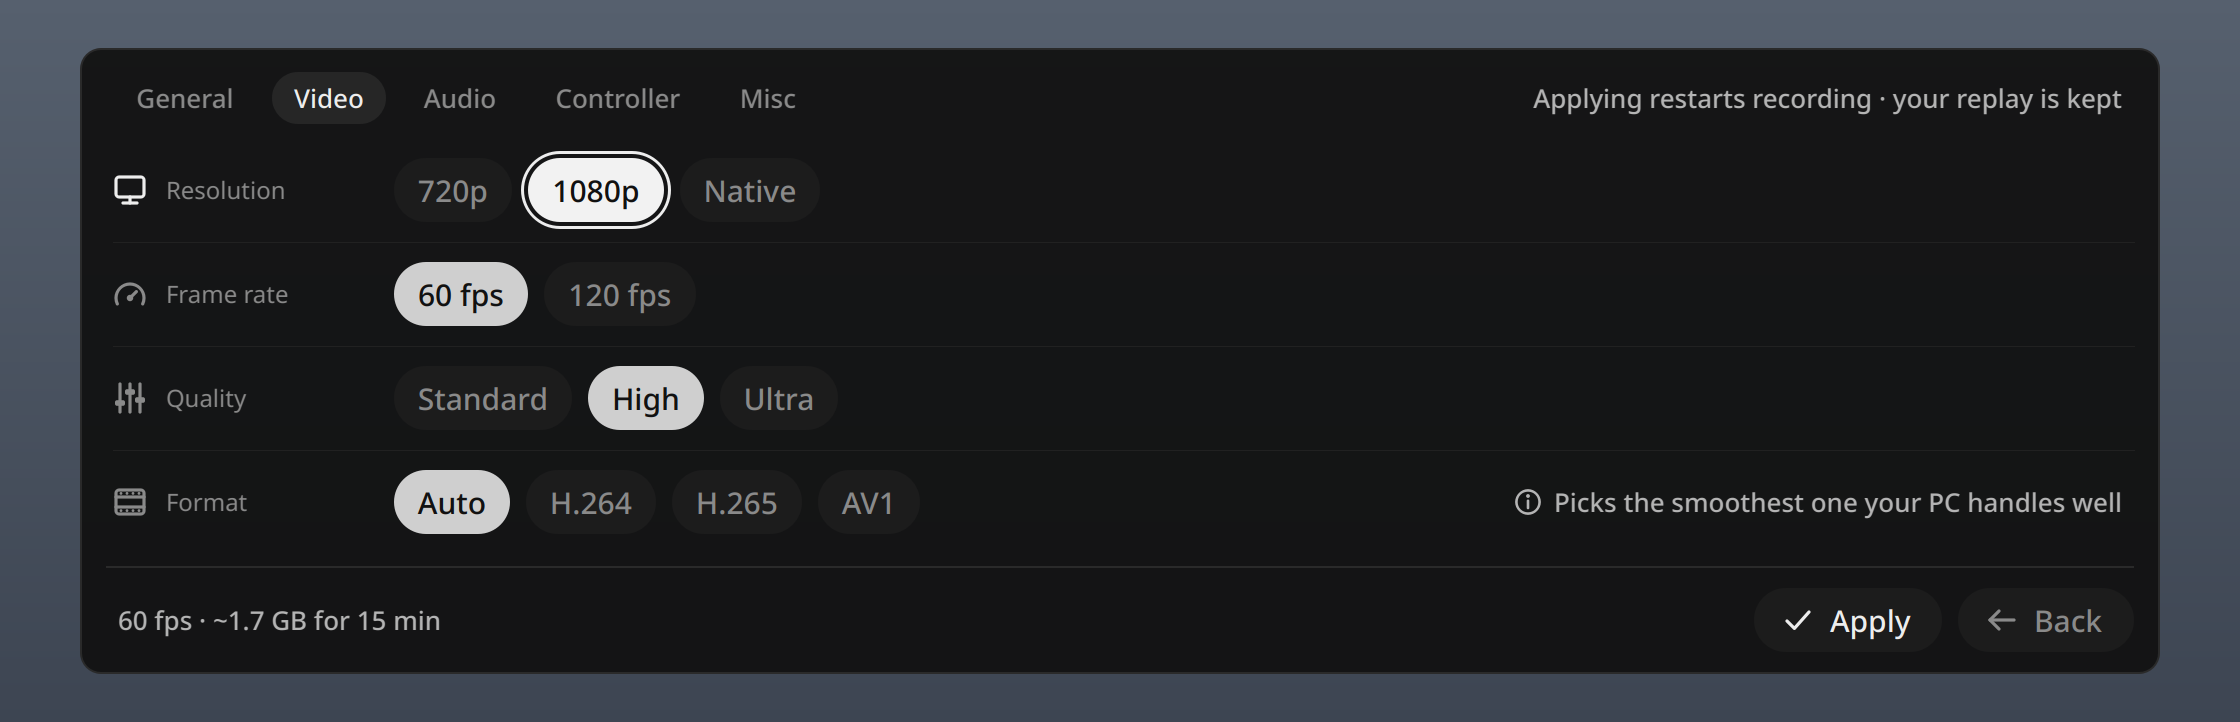
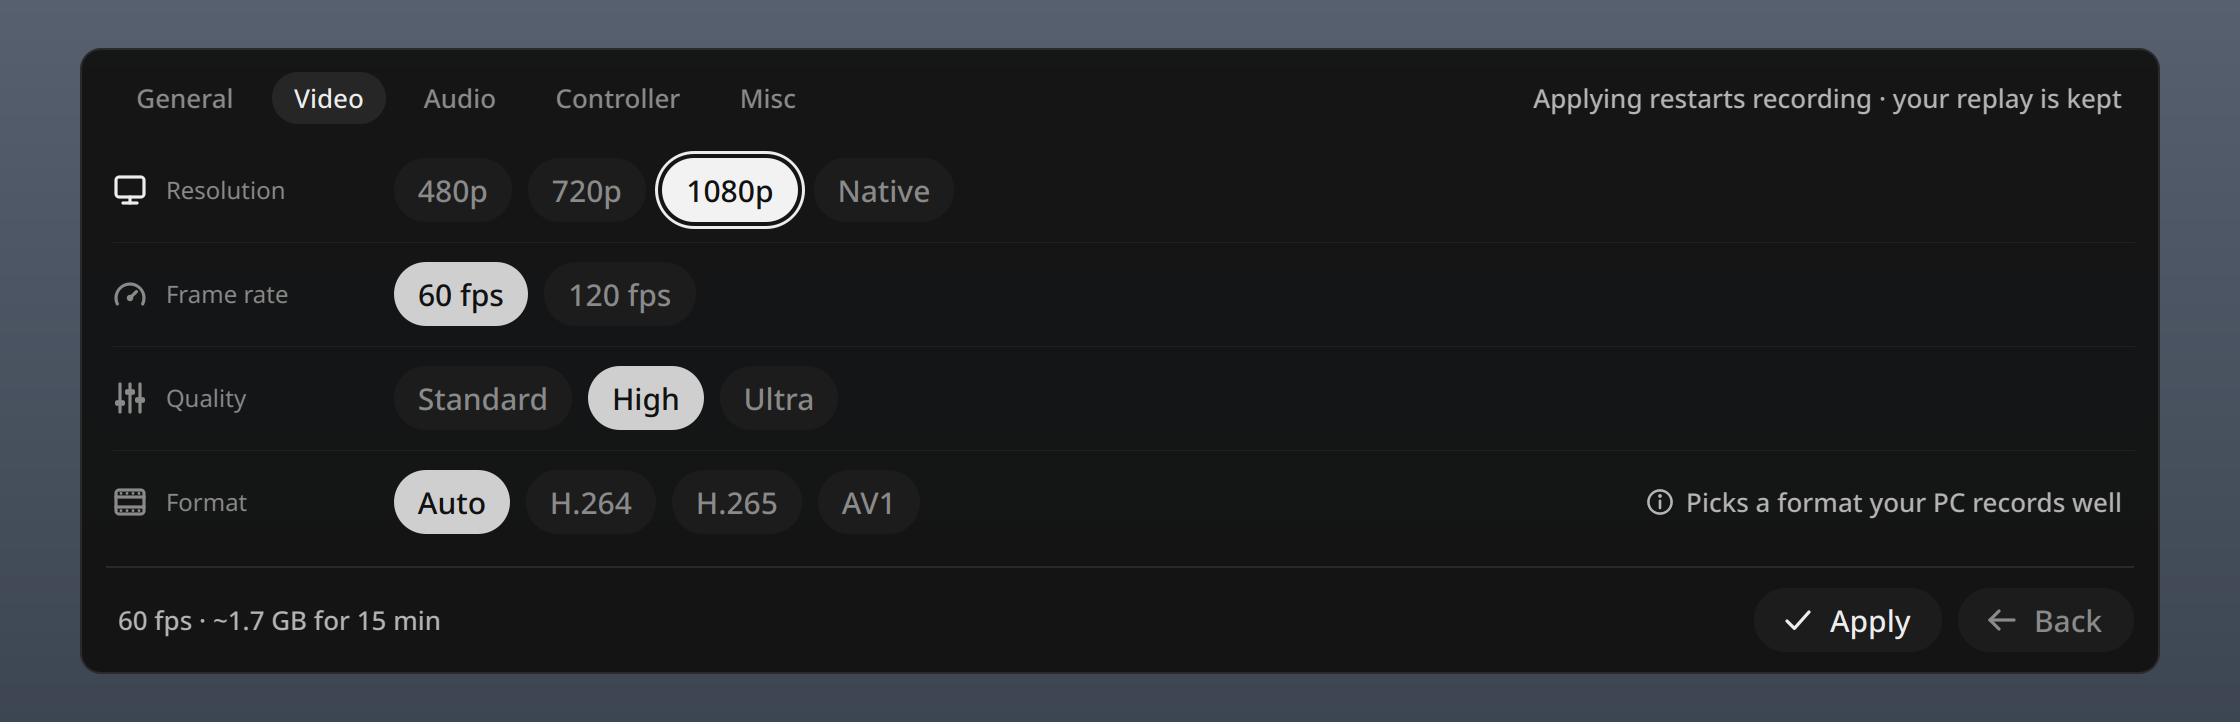
README pictures: 480p, Menu sounds, Misc
Claude-Session: https://claude.ai/code/session_0181yZEqcaMrFvRzGdWDbPHj

Changed region(s): [[0.1875, 0.1828, 0.4062, 0.3352], [0.6562, 0.6704, 0.9375, 0.7313]]

diff --git a/README.md b/README.md
@@ -172,7 +172,7 @@ Clips are always MP4. Formats your PC can't record are greyed out.
 <details><summary><b>See every tab</b></summary>
 
 <p align="center"><img src="assets/settings-general.png" width="880" alt="Settings, General tab: Record, Replay length, Keep history"></p>
-<p align="center"><img src="assets/settings-audio.png" width="880" alt="Settings, Audio tab: Sound and Mic"></p>
+<p align="center"><img src="assets/settings-audio.png" width="880" alt="Settings, Audio tab: Sound, Mic, Mic device and Menu sounds"></p>
 <p align="center"><img src="assets/settings-controller.png" width="880" alt="Settings, Controller tab: PS / Xbox + Down or Off"></p>
 <p align="center"><img src="assets/settings-misc.png" width="880" alt="Settings, Misc tab: Hour warning and Instant bar"></p>
 </details>
